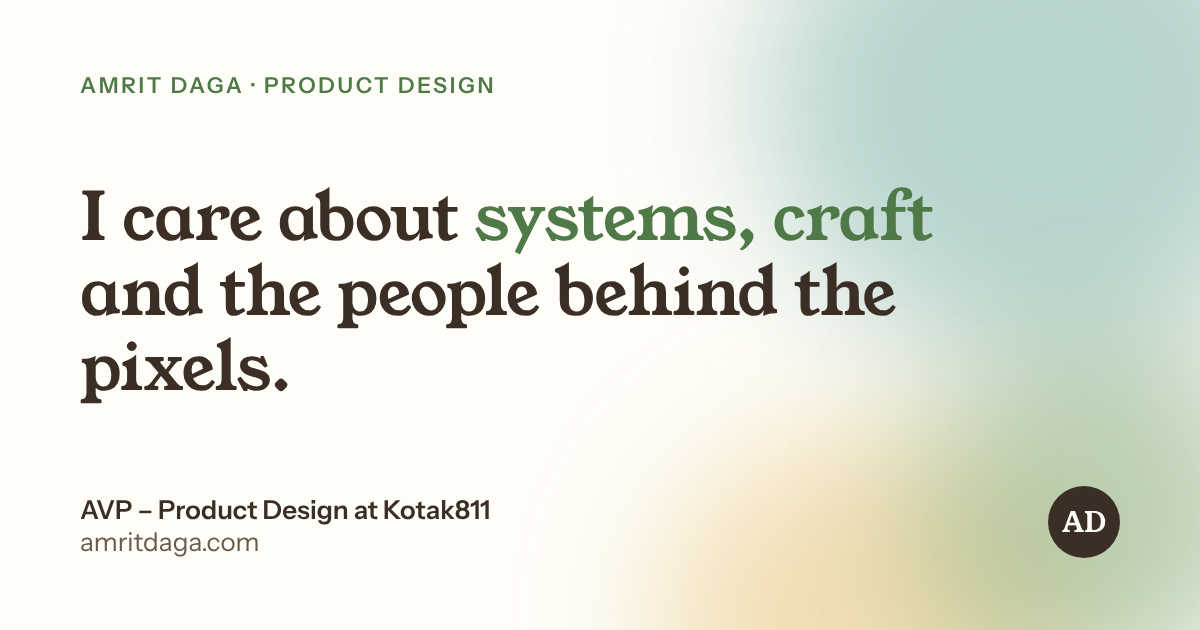
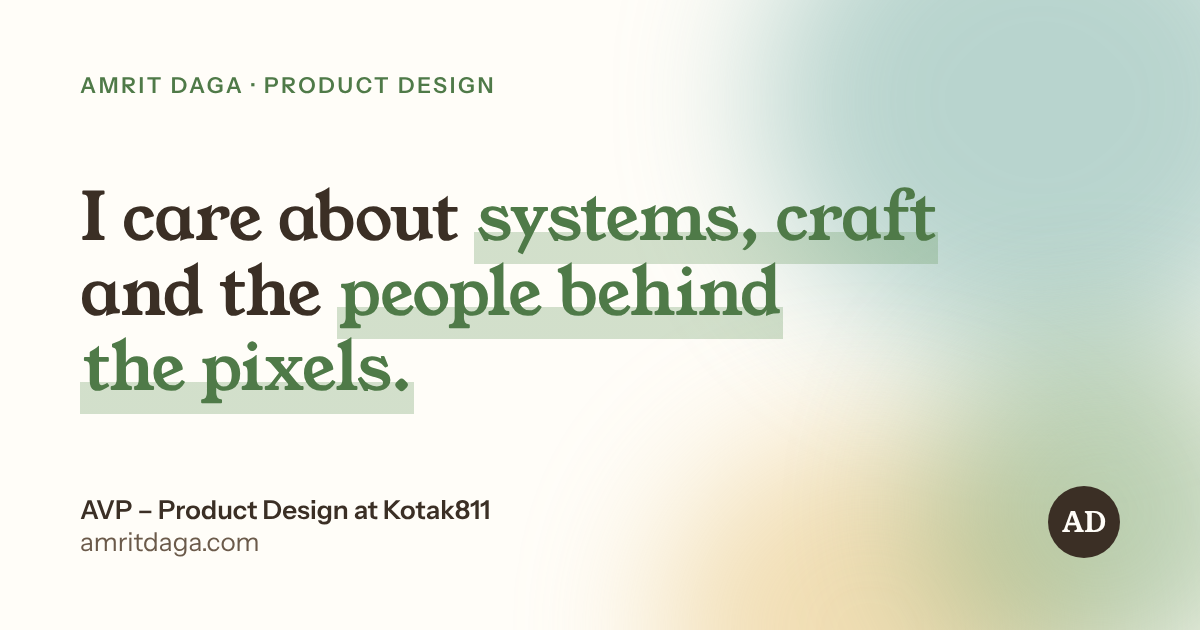
Link preview image: both highlights, matching the hero
Claude-Session: https://claude.ai/code/session_015LKG3Tq4LKskHBBKFgUf6P

Changed region(s): [[0.0617, 0.3016, 0.8017, 0.6635]]

diff --git a/work/naturale-ds.html b/work/naturale-ds.html
@@ -14,7 +14,7 @@
 <meta property="og:site_name" content="Amrit Daga">
 <meta property="og:title" content="Naturalé Design System · Amrit Daga">
 <meta property="og:description" content="Naturalé Design System: the nature-inspired design system behind amritdaga.com and my resumé, built with Claude.">
-<meta property="og:image" content="https://amritdaga.com/og-image.png">
+<meta property="og:image" content="https://amritdaga.com/og-image.png?v=2">
 <meta property="og:image:width" content="1200">
 <meta property="og:image:height" content="630">
 <meta property="og:image:alt" content="Amrit Daga: I care about systems, craft and the people behind the pixels.">

diff --git a/work/in-class-notes.html b/work/in-class-notes.html
@@ -14,7 +14,7 @@
 <meta property="og:site_name" content="Amrit Daga">
 <meta property="og:title" content="In-Class Notes · Amrit Daga">
 <meta property="og:description" content="Case study: teachers capture the interactive flat panel board in one tap and share it with every student.">
-<meta property="og:image" content="https://amritdaga.com/og-image.png">
+<meta property="og:image" content="https://amritdaga.com/og-image.png?v=2">
 <meta property="og:image:width" content="1200">
 <meta property="og:image:height" content="630">
 <meta property="og:image:alt" content="Amrit Daga: I care about systems, craft and the people behind the pixels.">

diff --git a/index.html b/index.html
@@ -15,7 +15,7 @@
 <meta property="og:title" content="Amrit Daga · Product Designer">
 <meta property="og:description" content="Amrit Daga, AVP – Product Design at Kotak811. 9+ years designing products used by millions.">
 <meta property="og:url" content="https://amritdaga.com/">
-<meta property="og:image" content="https://amritdaga.com/og-image.png">
+<meta property="og:image" content="https://amritdaga.com/og-image.png?v=2">
 <meta property="og:image:width" content="1200">
 <meta property="og:image:height" content="630">
 <meta property="og:image:alt" content="Amrit Daga: I care about systems, craft and the people behind the pixels.">

diff --git a/work/natural-ds-v1.html b/work/natural-ds-v1.html
@@ -14,7 +14,7 @@
 <meta property="og:site_name" content="Amrit Daga">
 <meta property="og:title" content="Natural Design System v1 · Amrit Daga">
 <meta property="og:description" content="Case study: version one of my design system, covering styles, components and patterns.">
-<meta property="og:image" content="https://amritdaga.com/og-image.png">
+<meta property="og:image" content="https://amritdaga.com/og-image.png?v=2">
 <meta property="og:image:width" content="1200">
 <meta property="og:image:height" content="630">
 <meta property="og:image:alt" content="Amrit Daga: I care about systems, craft and the people behind the pixels.">

diff --git a/work/delete-contact.html b/work/delete-contact.html
@@ -14,7 +14,7 @@
 <meta property="og:site_name" content="Amrit Daga">
 <meta property="og:title" content="Delete Contact · Amrit Daga">
 <meta property="og:description" content="Feature proposal: two faster, more intuitive ways to delete a contact on iPhone.">
-<meta property="og:image" content="https://amritdaga.com/og-image.png">
+<meta property="og:image" content="https://amritdaga.com/og-image.png?v=2">
 <meta property="og:image:width" content="1200">
 <meta property="og:image:height" content="630">
 <meta property="og:image:alt" content="Amrit Daga: I care about systems, craft and the people behind the pixels.">

diff --git a/work/trim-workout.html b/work/trim-workout.html
@@ -14,7 +14,7 @@
 <meta property="og:site_name" content="Amrit Daga">
 <meta property="og:title" content="Trim Workout · Amrit Daga">
 <meta property="og:description" content="Feature proposal: trim the end of an Apple Watch workout you forgot to stop.">
-<meta property="og:image" content="https://amritdaga.com/og-image.png">
+<meta property="og:image" content="https://amritdaga.com/og-image.png?v=2">
 <meta property="og:image:width" content="1200">
 <meta property="og:image:height" content="630">
 <meta property="og:image:alt" content="Amrit Daga: I care about systems, craft and the people behind the pixels.">

diff --git a/work/onefootball.html b/work/onefootball.html
@@ -14,7 +14,7 @@
 <meta property="og:site_name" content="Amrit Daga">
 <meta property="og:title" content="OneFootball App · Amrit Daga">
 <meta property="og:description" content="UI study: making OneFootball’s scores and news easy to scan.">
-<meta property="og:image" content="https://amritdaga.com/og-image.png">
+<meta property="og:image" content="https://amritdaga.com/og-image.png?v=2">
 <meta property="og:image:width" content="1200">
 <meta property="og:image:height" content="630">
 <meta property="og:image:alt" content="Amrit Daga: I care about systems, craft and the people behind the pixels.">

diff --git a/resume.html b/resume.html
@@ -14,7 +14,7 @@
 <meta property="og:site_name" content="Amrit Daga">
 <meta property="og:title" content="Resumé · Amrit Daga">
 <meta property="og:description" content="Resumé of Amrit Daga, AVP – Product Design at Kotak811.">
-<meta property="og:image" content="https://amritdaga.com/og-image.png">
+<meta property="og:image" content="https://amritdaga.com/og-image.png?v=2">
 <meta property="og:image:width" content="1200">
 <meta property="og:image:height" content="630">
 <meta property="og:image:alt" content="Amrit Daga: I care about systems, craft and the people behind the pixels.">
